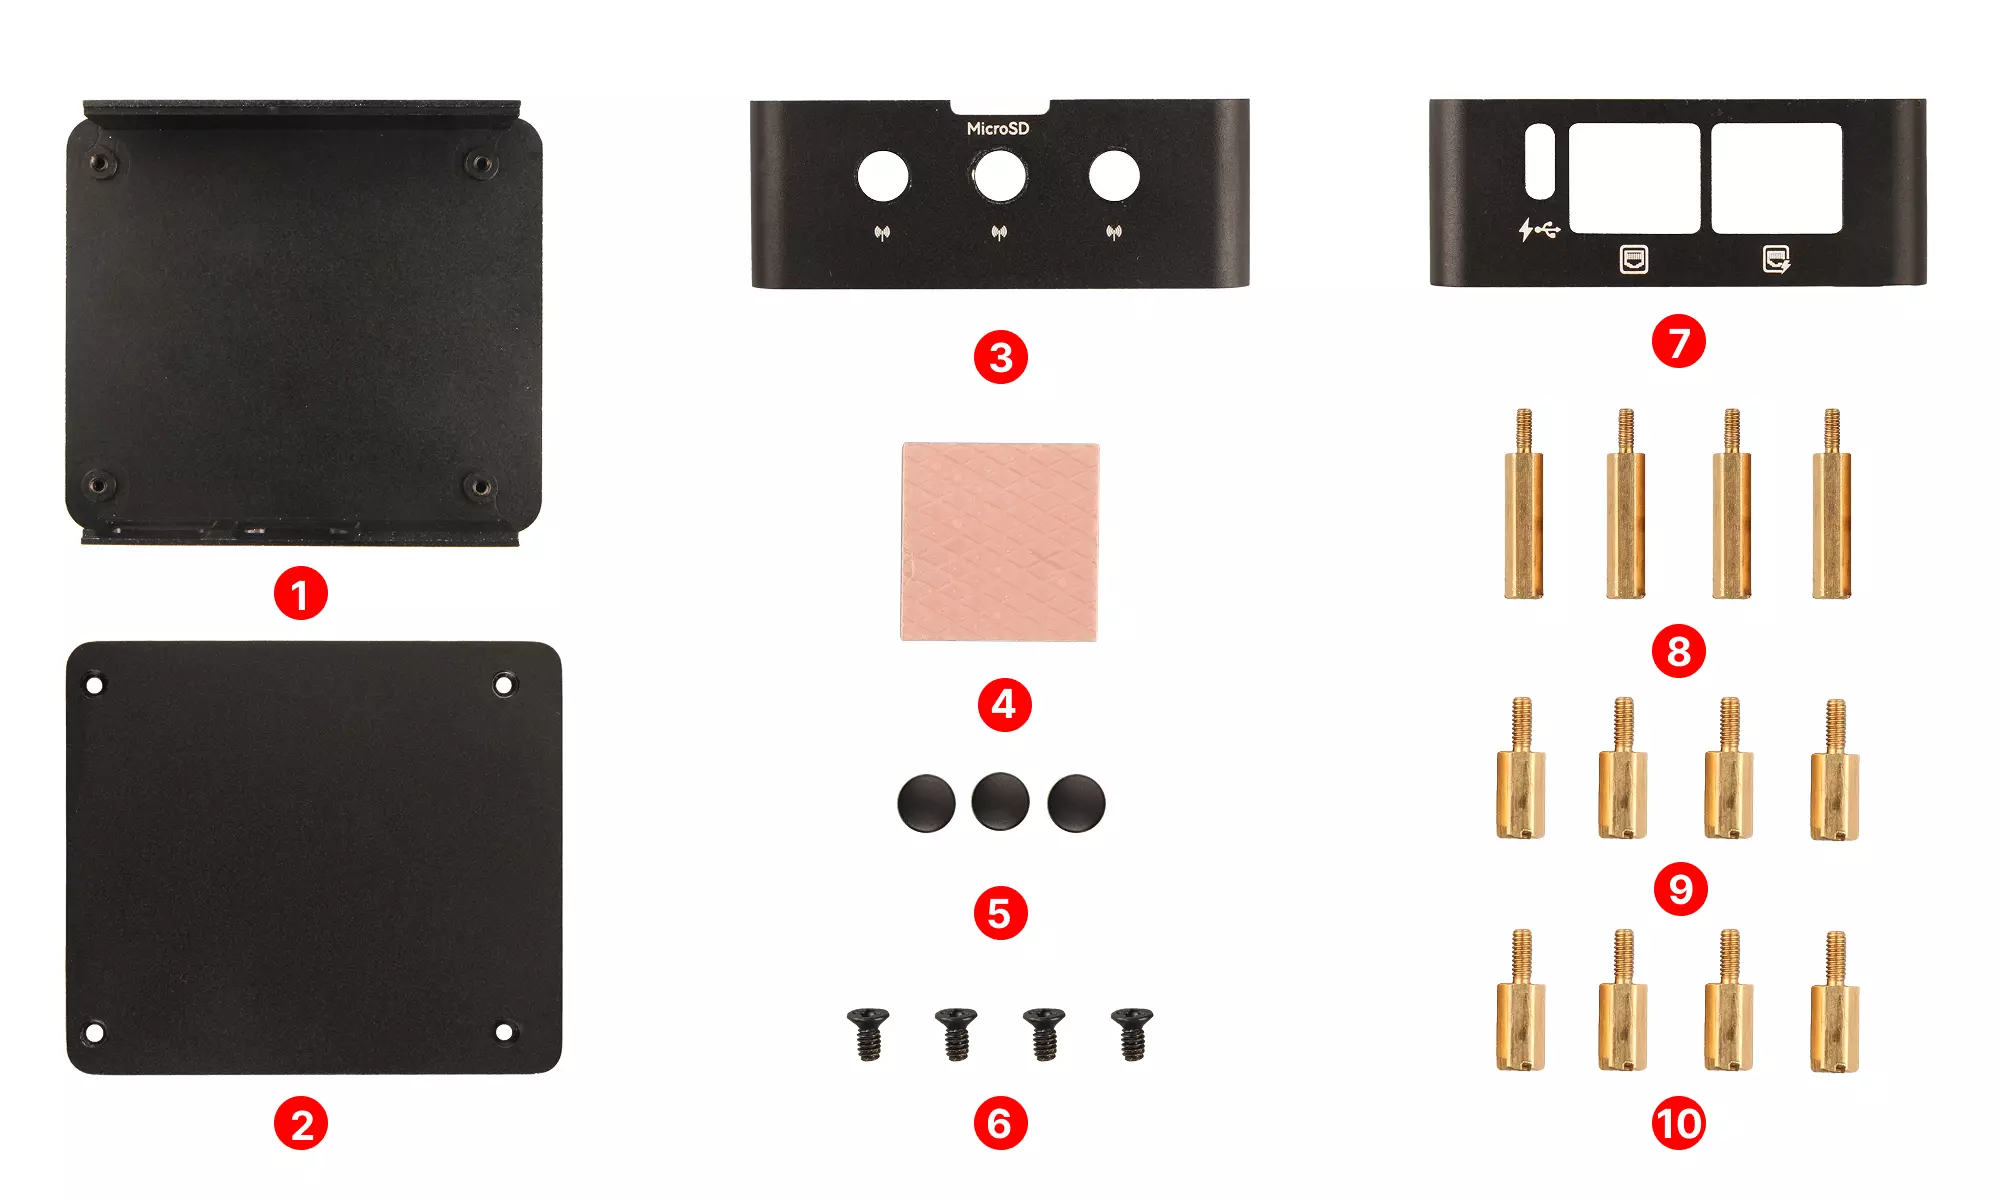
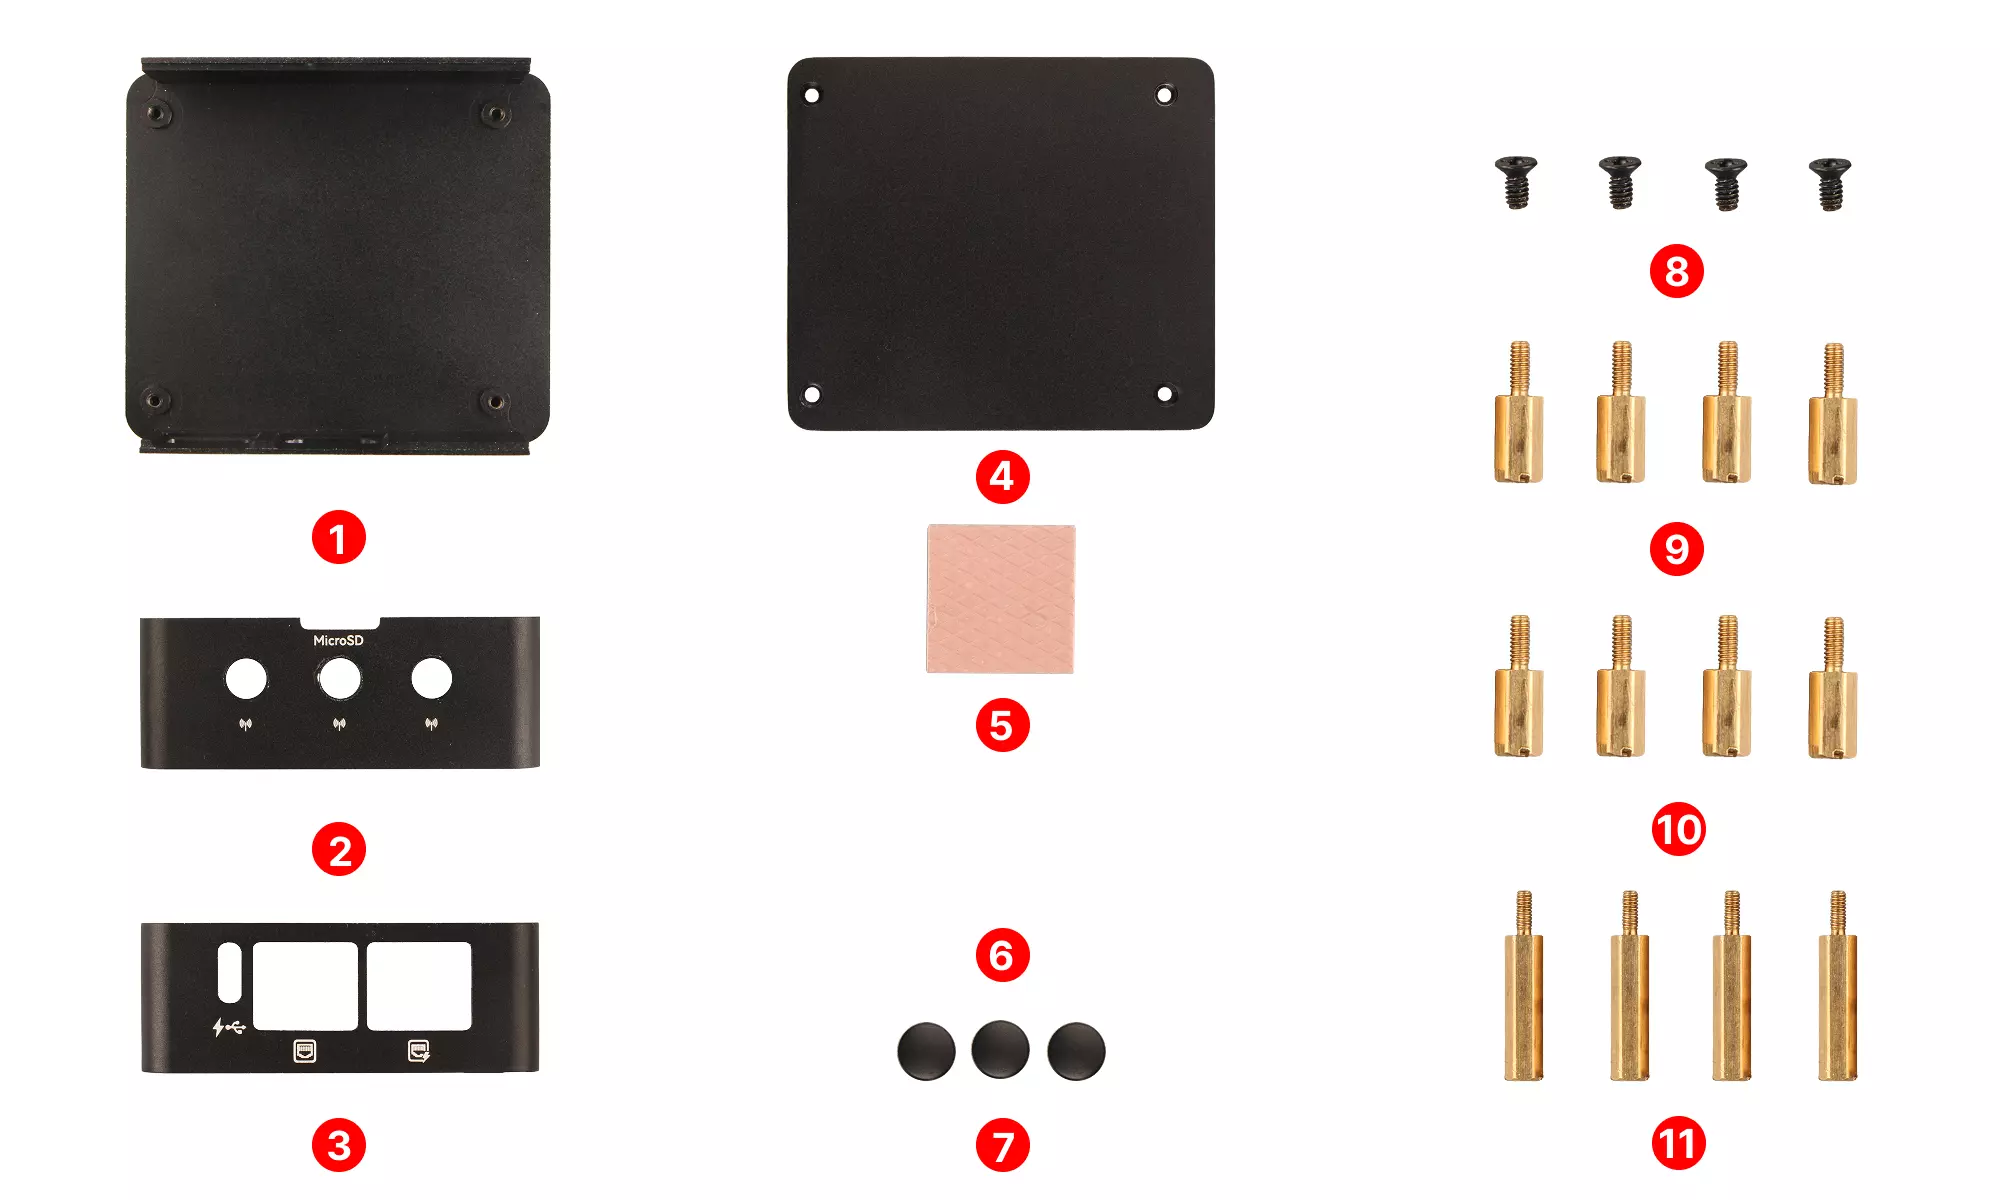
fix: modify radxa metal case for cubie a5e package list

diff --git a/docs/accessories/metal-case-cubie-a5e.md b/docs/accessories/metal-case-cubie-a5e.md
@@ -28,29 +28,22 @@ sidebar_position: 30
 
 ### 配件清单
 
-- 散热器 x 1
-- 右侧盖 x 1
-- 左侧盖 x 1
-- 下盖 x 1
-- 导热硅胶 x 1
-- 天线孔胶塞 x 3
-- KM2\*4\*3.5 mm 螺丝 x 4
+- ① : 1x 散热器
+- ② : 1x 右侧盖
+- ③ : 1x 左侧盖
+- ④ : 1x 下盖
+- ⑤ : 1x 导热硅胶
+- ⑥ : 1x 棒子天线组
+- ⑦ : 3x 天线孔胶塞
+- ⑧ : 4x KM2\*4\*3.5 mm 螺丝
 - 固定铜柱
-  - M2\*7 mm 铜柱 x 4（搭配 PoE HAT 使用：固定主板）
-  - M2\*8 mm 铜柱 x 4（搭配 PoE HAT 使用：固定 PoE HAT）
-  - M2\*16.6 mm 铜柱 x4（不搭配 PoE HAT 使用：固定主板）
+  - ⑨ : 4x M2\*7 mm 铜柱 （搭配 PoE HAT使用：固定主板）
+  - ⑩ : 4x M2\*8 mm 铜柱 （搭配 PoE HAT使用：固定 PoE HAT）
+  - ⑪ : 4x M2\*16.6 mm 铜柱 （不搭配 PoE HAT使用：固定主板）
 
 <div style={{textAlign: 'center'}}>
     <img src="/img/accessories/metal-case-cubie-a5e/ae031-0.webp" style={{width: '100%', maxWidth: '1200px'}} />
 </div>
-
-| 序号 | 配件名称   | 数量 | 序号 | 配件名称            | 数量 |
-| ---- | ---------- | ---- | ---- | ------------------- | ---- |
-| ①    | 散热器     | 1    | ⑥    | KM2\*4\*3.5 mm 螺丝 | 4    |
-| ②    | 下盖       | 1    | ⑦    | 左侧盖              | 1    |
-| ③    | 右侧盖     | 1    | ⑧    | M2\*16.6 mm 铜柱    | 4    |
-| ④    | 导热硅胶   | 1    | ⑨    | M2\*7 mm 铜柱       | 4    |
-| ⑤    | 天线孔胶塞 | 3    | ⑩    | M2\*8 mm 铜柱       | 4    |
 
 ### 不搭配 PoE HAT 使用
 
@@ -160,7 +153,7 @@ PoE HAT 需要自行购买！
 #### Step 6 : 安装 PoE HAT
 
 - 将 PoE HAT 对准 40 Pin 引脚和 PoE Header 引脚安装
-- 使用十字螺丝刀按对角顺序逐步拧紧4颗 M2*8 mm 的铜柱固定 PoE HAT
+- 使用十字螺丝刀按对角顺序逐步拧紧4颗 M2\*8 mm 的铜柱固定 PoE HAT
 <div style={{textAlign: 'center'}}>
     <img src="/img/accessories/metal-case-cubie-a5e/ae031-13.webp" style={{width: '100%', maxWidth: '1200px'}} />
 </div>

diff --git a/i18n/en/docusaurus-plugin-content-docs/current/accessories/metal-case-cubie-a5e.md b/i18n/en/docusaurus-plugin-content-docs/current/accessories/metal-case-cubie-a5e.md
@@ -10,7 +10,7 @@ While ensuring durability and efficient heat dissipation, it also features an ex
 
 Empower your Cubie A5E to achieve great things in small spaces!
 
-# Key Features
+## Key Features
 
 - **Custom-fit for CUBIE A5E** - Precise cutouts and structural design ensure perfect compatibility with all interfaces and expansion capabilities.
 
@@ -26,29 +26,22 @@ Empower your Cubie A5E to achieve great things in small spaces!
 
 ### Package Contents
 
-- Heatsink × 1
-- Right side cover × 1
-- Left side cover × 1
-- Bottom cover × 1
-- Thermal pad × 1
-- Antenna port plugs × 3
-- KM2\*4\*3.5 mm screws × 4
-- Mounting standoffs
-  - M2\*7 mm standoffs × 4 (for securing mainboard when using PoE HAT)
-  - M2\*8 mm standoffs × 4 (for securing PoE HAT)
-  - M2\*16.6 mm standoffs × 4 (for securing mainboard without PoE HAT)
+- ① : 1x Heatsink
+- ② : 1x Right Side Cover
+- ③ : 1x Left Side Cover
+- ④ : 1x Bottom Cover
+- ⑤ : 1x Thermal Pad
+- ⑥ : 1x Rod Antenna Set
+- ⑦ : 3x Antenna Hole Rubber Plugs
+- ⑧ : 4x KM2\*4\*3.5 mm Screws
+- Standoffs:
+  - ⑨ : 4x M2\*7 mm Standoffs (for use with PoE HAT: fixing the mainboard)
+  - ⑩ : 4x M2\*8 mm Standoffs (for use with PoE HAT: fixing the PoE HAT)
+  - ⑪ : 4x M2\*16.6 mm Standoffs (for use without PoE HAT: fixing the mainboard)
 
 <div style={{textAlign: 'center'}}>
     <img src="/en/img/accessories/metal-case-cubie-a5e/ae031-0.webp" style={{width: '100%', maxWidth: '1200px'}} />
 </div>
-
-| No. | Item               | Qty | No. | Item                  | Qty |
-| --- | ------------------ | --- | --- | --------------------- | --- |
-| ①   | Heatsink           | 1   | ⑥   | KM2\*4\*3.5 mm screws | 4   |
-| ②   | Bottom cover       | 1   | ⑦   | Left side cover       | 1   |
-| ③   | Right side cover   | 1   | ⑧   | M2\*16.6 mm standoffs | 4   |
-| ④   | Thermal pad        | 1   | ⑨   | M2\*7 mm standoffs    | 4   |
-| ⑤   | Antenna port plugs | 3   | ⑩   | M2\*8 mm standoffs    | 4   |
 
 ### Without PoE HAT
 
